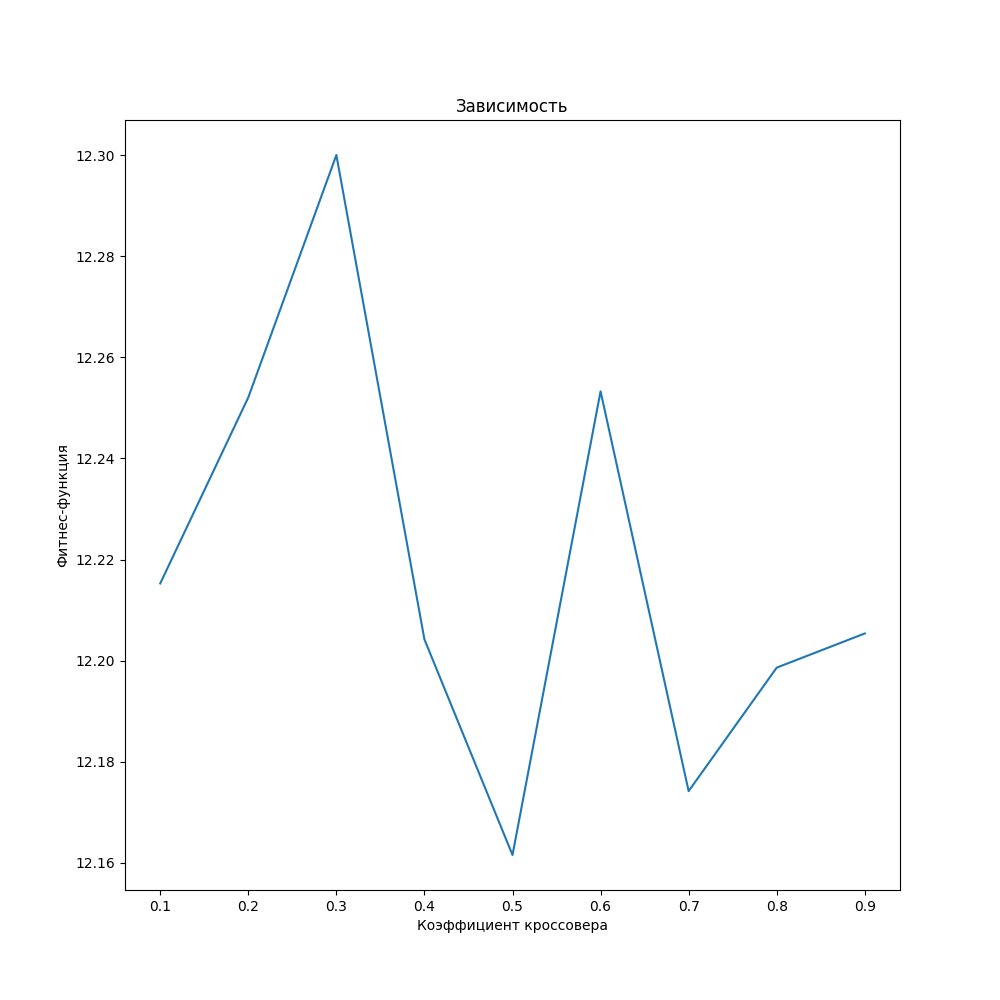
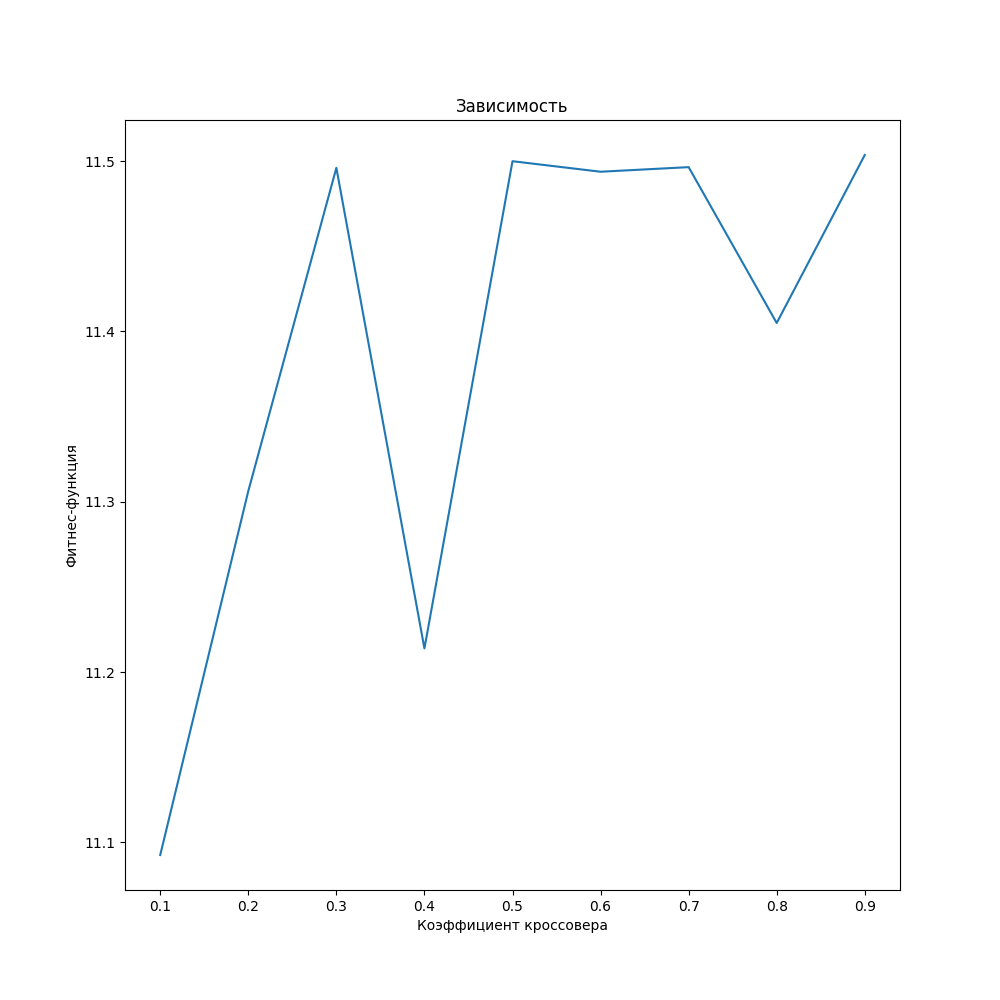
GA1: rewriting old code

diff --git a/GA1/transformation_kernel.py b/GA1/transformation_kernel.py
@@ -1,0 +1,44 @@
+import cv2
+import math
+import numba
+import numpy as np
+import time
+
+from numba import njit
+
+
+# -----------------------------------------------------------
+# Расчет сраднего значения яркости в окрестности пикселя
+# -----------------------------------------------------------
+@njit(fastmath=True, cache=True)
+def average_brightness_value_calc(image, i, j, off):
+    i = i + off
+    j = j + off
+    return np.mean(image[i - off: i + off + 1, j - off: j + off + 1])
+
+
+# -----------------------------------------------------------
+# Расчет среднеквадратического отклонения в окрестности
+# -----------------------------------------------------------
+@njit(fastmath=True, cache=True)
+def standard_deviation_calc(image, i, j, off):
+    i = i + off
+    j = j + off
+    return np.std(image[i - off: i + off + 1, j - off: j + off + 1])
+
+
+# -----------------------------------------------------------
+# Функция преобразования изображения
+# -----------------------------------------------------------
+# @njit(fastmath=True, cache=True)
+def pixel_improvement(image, image_bordered, n, off):
+    global_brightness_value = np.mean(image)
+    new_image = image.copy()
+
+    initial_image_height = image.shape[0]
+    initial_image_width = image.shape[1]
+
+    for i in numba.prange(0, initial_image_height):
+        for j in range(0, initial_image_width):
+            av_br_val = average_brightness_value_calc(image_bordered, i, j, off)
+            st_br_val = standard_deviation_calc(image_bordered, i, j, off)

diff --git a/GA2/imp_criteria.py b/GA2/imp_criteria.py
@@ -44,13 +44,25 @@ def calculate_edge_count(image):
 
 
 # -----------------------------------------------------------
+# Вычисление уровня адаптации зрительной системы
+# -----------------------------------------------------------
+@njit(fastmath=True, cache=True)
+def level_of_adaptation(image):
+    max_intensity = image.max()
+    gl_br_val = np.mean(image)
+    LQ = 1 - ((gl_br_val - max_intensity / 2) / (max_intensity / 2))
+    return LQ
+
+
+# -----------------------------------------------------------
 # Вычисление значения фитнес-функции для каждой хромосомы
 # -----------------------------------------------------------
 @njit(fastmath=True, cache=False)
 def calculate_fintess_value(gray_levels, chromosome, image_array):
     image = create_enhanced_image(gray_levels, chromosome, image_array)
     E, pix_count = sum_intensity(image)
-    fitness_value = math.log(math.log(E) * pix_count)
+    LQ = level_of_adaptation(image)
+    fitness_value = math.log(math.log(E) * pix_count) * LQ
     return fitness_value
 
 

diff --git a/GA1/main.py b/GA1/main.py
@@ -1,0 +1,30 @@
+import cv2
+import time
+
+from transformation_kernel import pixel_improvement
+
+
+def load_image(path):
+    image = cv2.imread(path, cv2.IMREAD_GRAYSCALE)
+    cv2.imshow("Initial image", image)
+    cv2.waitKey(0)
+
+    # Размер окрестности
+    n = 3
+    off = n // 2
+
+    # Изображение с зеркальным отражением границ относительно каждого края
+    # Сделано для решения проблемы краевых пикселей
+    image_bordered = cv2.copyMakeBorder(src=image, top=off, bottom=off, left=off, right=off,
+                                        borderType=cv2.BORDER_REFLECT)
+
+    start_time = time.time()
+
+    pixel_improvement(image, image_bordered, n, off)
+
+    end_time = time.time() - start_time
+    print("Время выполнения --- %s секунд ---" % end_time)
+
+
+if __name__ == '__main__':
+    load_image('../imgs/camera_man_3.png')

diff --git a/GA2/main.py b/GA2/main.py
@@ -143,7 +143,7 @@ def enhancement(path):
 
 
 if __name__ == '__main__':
-    file_name = '../imgs/camera_man_3.png'
+    file_name = '../imgs/Albert-Einstein.jpg'
     if research_mode == True:
         research_enhancement(file_name)
     else:
